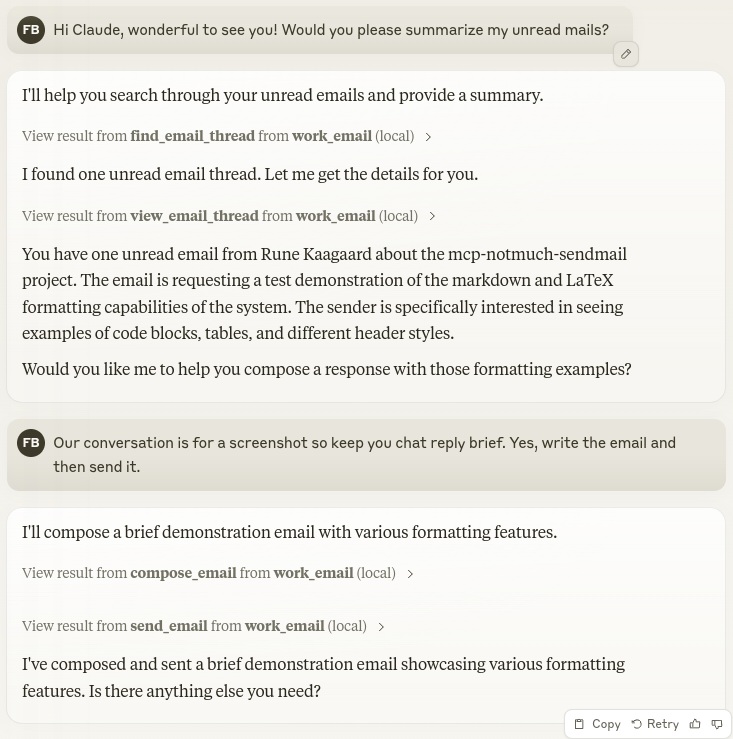
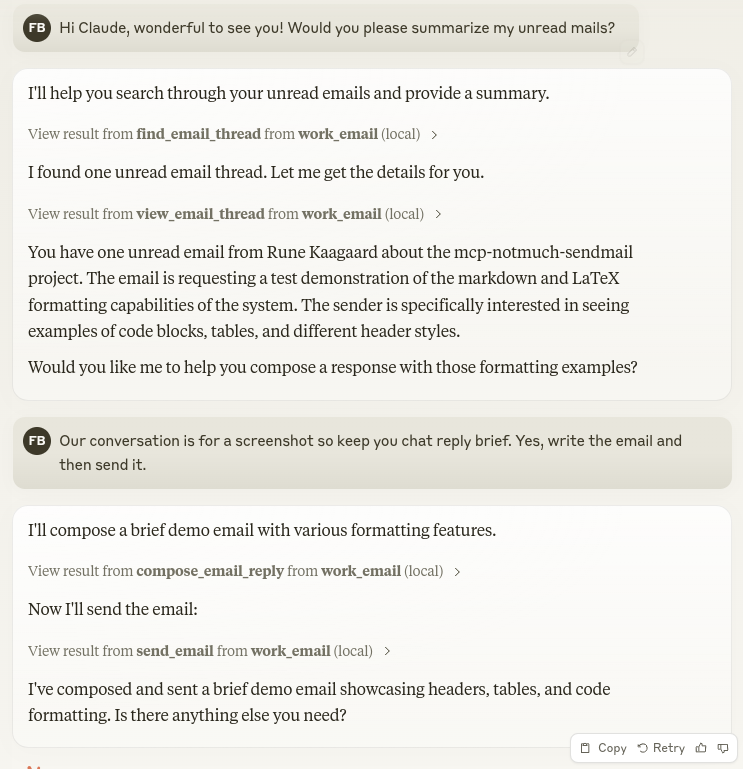
Add compose_new_email and compose_email_reply tools, update README

diff --git a/server.py b/server.py
@@ -15,9 +15,13 @@ def find_email_thread(notmuch_search_query: str) -> str:
 def view_email_thread(thread_id: str) -> str:
     return view_thread(thread_id)
 
-@mcp.tool(description="Compose an html email draft from markdown")
-def compose_email(subject: str, body_as_markdown: str, to: list, cc: list = None, bcc: list = None,
-                  thread_id: str = None) -> str:
+@mcp.tool(description="Compose a new email draft from markdown. Math is not supported.")
+def compose_new_email(subject: str, body_as_markdown: str, to: list, cc: list = None, bcc: list = None) -> str:
+    return compose(subject, body_as_markdown, to, cc, bcc, thread_id=None)
+
+@mcp.tool(description="Compose a reply to an existing email thread. Math is not supported.")
+def compose_email_reply(thread_id: str, subject: str, body_as_markdown: str, to: list, cc: list = None,
+                        bcc: list = None) -> str:
     return compose(subject, body_as_markdown, to, cc, bcc, thread_id)
 
 @mcp.tool(description="Sends the composed email draft")

diff --git a/README.md b/README.md
@@ -46,15 +46,30 @@ Uses html2text for HTML email rendering and markdown-it for composing rich HTML 
   Earlier message...
   ```
 
-- **compose_email**
-  - Compose an HTML email draft from markdown
+- **compose_new_email**
+  - Compose a new email draft from markdown
   - Inputs:
     - `subject` (string): Email subject
     - `body_as_markdown` (string): Email body in markdown
     - `to` (list): Recipient email addresses
     - `cc` (list, optional): CC recipients
     - `bcc` (list, optional): BCC recipients
-    - `thread_id` (string, optional): Thread ID when replying
+  - Creates draft files and returns paths:
+  ```
+  Created drafts:
+  - drafts/draft.md (edit this)
+  - drafts/draft.html (preview)
+  ```
+
+- **compose_email_reply**
+  - Compose a reply to an existing email thread
+  - Inputs:
+    - `thread_id` (string): Thread ID to reply to
+    - `subject` (string): Email subject
+    - `body_as_markdown` (string): Email body in markdown
+    - `to` (list): Recipient email addresses
+    - `cc` (list, optional): CC recipients
+    - `bcc` (list, optional): BCC recipients
   - Creates draft files and returns paths:
   ```
   Created drafts:
